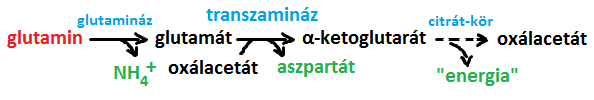
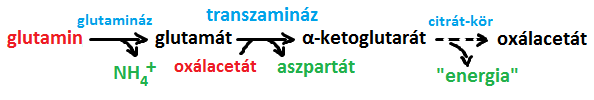
make some changes

Changed region(s): [[0.2727, 0.57, 0.4545, 0.75]]

diff --git a/BioKemia/II/biokemia_II.html b/BioKemia/II/biokemia_II.html
@@ -49,9 +49,7 @@
 
 <div><a href="m0201_hu_KoK_20170928_Demo_01.pdf">demó-1 tételek címe.pdf</a></div>
 
-<details open><summary><strong>PROJECT</strong></summary><ul class="normal">
-	<li>aminosav képletek</li>
-	<li>35t &#10140; WORD</li>
+<details><summary><strong>PROJECT</strong></summary><ul class="normal">
  <hr>
 	<li><span class="Important">táblázat-RAJZ</span> reakciók (képletek): aminosav & lipid (mint szénhidrátnál)</li>
 	<li>csináljak összefoglaló képet a DEMÓ-1 metabolikus utak szabályozásairól (allosztérikus, kovalens, génexpresszió) &#10140; úgy tanuljam őket (egyszerűbb szvsz)</li>
@@ -291,7 +289,7 @@
 		</ul></details>
 		<details class="{344} kerdes 3/3"><summary>glutaminolízis</summary><ul class="normal">
 			<li>osztódó bélhámsejtekben jellemző</li>
-			<li>ugyanis a nettó reakció &#10140; glutaminból keletkezik aszpartát + energia + NH<sub>4</sub><sup>+</sup></li><ul>
+			<li>ugyanis a nettó reakció &#10140; glutaminból és oxálacetátból keletkezik aszpartát + energia + NH<sub>4</sub><sup>+</sup></li><ul>
 				<li>aszpartát pedig nukleotid szintézishez kell, csakúgy mint energia &#10140; tehát ez a magyarázata, hogy osztódó sejtekben jelentős</li>
 				<li>az NH<sub>4</sub><sup>+</sup> pedig eljut májba</li>
 			</ul>
@@ -721,6 +719,8 @@
 		<details class="kerdes 3/2"><summary>Melyek a NADPH-t előállító enzimek, hol találhatóak a sejtben, <strong>mihez kell NADPH?</strong></summary><ul class="normal">
 			<li><span class="Important">zsírsav-szintézis</span> &#10140; 14db/palmitil-CoA <span class="lasd">bk-II/2d: 12.t</span></li>
 			<li><span class="Important">koleszterin-szintézis</span> &#10140; 20db/koleszterin <span class="lasd">bk-II/2d: 23.t</span></li>
+			<li>hem-lebontás: oxidálása biliverdinné, majd annak redukciója bilirubinná &#10140; 1-1db <span class="lasd">bk-II/2d: 77.t</span></li>
+			<li>DHB redukciója THB-re &#10140; 1db <span class="lasd">bk-II/2d: 60.t</span></li>
 			<li>zsírsav-deszaturáció &#10140; 1db/kettős kötés <span class="lasd">bk-II/2d: 14.t</span></li>
 			<li>szfingomielin-szintézis &#10140; 1db/szfingomielin <span class="lasd">bk-II/2d: 18.t</span></li>
 		</ul></details>
@@ -901,21 +901,24 @@
 			<img data-src="vldlvwldm.png">
 		</ul></details>
 		<details class="{331} kerdes 3/4"><summary>A naszcens VLDL keletkezése, érése, a VLDL bomlása, maradványának felvétele hol, hogyan történik? <strong>Melyik lipidet honnan hová szállítja?</strong></summary><ul class="normal">
-		  <strong>triglicerid</strong>
-			<li>kilomikron &#10140; májba és perifériás szövetbe</li>
-			<li>VLDL &#10140; perifériás szövetbe</li>
-		  <hr><strong>koleszterin</strong>
-			<li>koleszterin</li><ul>
-				<li><abbr title="ugye VLSL-ből marad vissza LDL">(VLDL &#10140;)</abbr>LDL esetében &#10140; perifériás szövetbe</li>
-				<li>HDL (és kilomikron) esetében &#10140; májba</li>
-			</ul>
-		  <hr><strong>zsírsavak sorsa:</strong>
-			<li>táplálékfelvételt követően &#10140; zsírszövetbe kerül <abbr title="újra">'</abbr>triglicerid szintetizálódk belőle, és raktározásra kerül</li>
-			<li>éhezésben &#10140; az izomszövetbe(szív/hcs) kerül és eloxidálódva fedezi az energiaszükségletét</li>
-			<li><font style="font-size:80%">egy részük (kilomikron maradvány, IDL) végül a májba jut</font></li>
-		  <hr>
-			<li>magyarázata &#10140; zsírszövetben a lipoprotein-lipázt az inzulin aktiválja (az ApoC-II mellett), étkezés után pedig az inzulin értelemszerűen magas <font style="font-size:80%">(hogy vércukorszint ne nőljön meg és sejtek vegyék fel a glükózt)</font></li>
-		  <img data-src="lprptknksjkm.png">
+			<div class="imp [300]"></div>
+			<details><summary>(régebbi jegyzet)</summary><ul class="normal">
+			  <strong>triglicerid</strong>
+				<li>kilomikron &#10140; májba és perifériás szövetbe</li>
+				<li>VLDL &#10140; perifériás szövetbe</li>
+			  <hr><strong>koleszterin</strong>
+				<li>koleszterin</li><ul>
+					<li><abbr title="ugye VLSL-ből marad vissza LDL">(VLDL &#10140;)</abbr>LDL esetében &#10140; perifériás szövetbe</li>
+					<li>HDL (és kilomikron) esetében &#10140; májba</li>
+				</ul>
+			  <hr><strong>zsírsavak sorsa:</strong>
+				<li>táplálékfelvételt követően &#10140; zsírszövetbe kerül <abbr title="újra">'</abbr>triglicerid szintetizálódk belőle, és raktározásra kerül</li>
+				<li>éhezésben &#10140; az izomszövetbe(szív/hcs) kerül és eloxidálódva fedezi az energiaszükségletét</li>
+				<li><font style="font-size:80%">egy részük (kilomikron maradvány, IDL) végül a májba jut</font></li>
+			  <hr>
+				<li>magyarázata &#10140; zsírszövetben a lipoprotein-lipázt az inzulin aktiválja (az ApoC-II mellett), étkezés után pedig az inzulin értelemszerűen magas <font style="font-size:80%">(hogy vércukorszint ne nőljön meg és sejtek vegyék fel a glükózt)</font></li>
+			  <img data-src="lprptknksjkm.png">
+			</ul></details>
 		</ul></details>
 	</ul></details>
 	<details class="open"><summary class="status"><strong>22.</strong> Hogyan szívódik fel a koleszterin a bélből? Milyen farmakológiai utat ismer a vér a koleszterin szint csökkentésére a bél receptorok szintjén? Hol és kb. mennyi koleszterin található a szervezetünkben? Hogyan szabadulhatunk meg a koleszterintől? Hogyan pótlódik a napi veszteség?</summary><ul class="normal">
@@ -1282,6 +1285,7 @@
 		</ul></details>
 		<details class="kerdes 3/4"><summary>Mit jelent, hogy egy aminosav esszenciális vagy szemiesszenciális? <strong>Sorolja fel az érintett aminosavakat!</strong></summary><ul class="normal">
 			<li>esszenciális(9db) &#10140; hisztidin(His), izoleucin(Ile), leucin(Leu), metionin(Met), fenil-alanin(Phe), treonin(Thr), triptofán(Trp), valin(Val), lizin(Lys)</li>
+			<font style="font-size:80%">megj.tipp: hisztidin + szukcinil-CoA-ra bomlók + összes ketoplasztikus, kivéve tirozin</font>
 			<li>szemiesszenciális(3db) &#10140; arginin(Arg), tirozin(Tyr), cisztein(Cys)</li>
 			<font style="font-size:80%">a Tyr és Cys előadáson volt a szemiesszenciálisok közé sorolva (TK-ban csak Arg)</font>
 		</ul></details>
@@ -1465,12 +1469,14 @@
 		</ul></details>
 	</ul></details>
 	<details class="kerdes 3/7"><summary class="status"><strong>43. A glutamát aminocsoportjának sorsai</strong></summary><ul class="normal">
-	  <strong>máj és vese &#10140; dezaminálás </strong>
+	  <strong>máj és vese &#10140; dezaminálás</strong>
 		<li>a glutamát-dehidrogenáz dezaminálja &#10140; ammónia formában leadja <abbr title="a glutamát az aminocsoportját">'</abbr></li>
 		<li>vesében a <abbr title="visszanövelés normálisra acidózis során">pH szabályozásban</abbr> játszik ez szerepet, ugyanis ammónium keletkezik (+1protont felvesz), majd egyből kiválasztásra kerül <span class="lasd">bk.II/2d: 53t</span></li>
 		<li>májban a periportalis hepatociktákban történik a dezaminálás, majd utána ugyanott az ornitin-ciklussal urea-ba épül be</li>
 	  <hr><strong>glutaminolízis &#10140; transzaminálás</strong>
 		<div class="imp [344]"></div>
+	  <hr><strong>máj &#10140; transzaminálás</strong>
+		<li>transzaminálással áttevődik oxálacetátra, így abból aszpartát lesz &#10140; <span class="lasd">bk-II/2d: 58t – 'ornitin-ciklus & citrát-kör kapcsolata'</span></li>
 	  <hr><strong>ammónia</strong>
 		<li>az ammónia nagy mennyiségben a vérben már toxikus</li>
 		<li>így fontos, hogy a feleslegtől meg kell szabadulni</li>
@@ -1730,13 +1736,15 @@
 	</ul></details>
 	<details class="open"><summary class="status"><strong>58.</strong> Mely aminosavakból származhat C1-töredék , és milyen 1 szénatomos csoport kerülhet tetrahidrofolsavra? Mely reakcióban használódhat fel a metil-THF metilcsoportja?</summary><ul class="normal">
 		<details class="kerdes 3/4"><summary><strong>Mely aminosavakból származhat C1-töredék , és milyen 1 szénatomos csoport kerülhet tetrahidrofolsavra?</strong> Mely reakcióban használódhat fel a metil-THF metilcsoportja?</summary><ul class="normal">
-			<li>aminosav &#10140; szerin, glicin, hisztidin, triptofán</li>
+			<li>aminosav &#10140; szerin, glicin, hisztidin, triptofán (megj.tipp: piruvátra bomlók, kivéve alanin!)</li>
 			<li>a tetrahidrofolsav-ra tehát ezen aminosavakról átkerül valamelyik 1C-atomos csoport (a THF 5. és 10. N-jéhez kapcsolódik 1-1db)</li>
+			<li>pl. glicinhasító-enzim által katalizált reakció: lennti kép &#10140; <span class="lasd">bk-II/2d: 46.t</span></li>
 		  <hr>
 			<li>1C-atomos csoport az oxidáltsági állapotától függően lehet &#10140; -CH<sub>3</sub>(metil), -CH<sub>2</sub>-(metilén), -CHO(formil), -CHNH(formimino), -CH=(metenil)</li>
 			<font style="font-size:80%">a legoxidáltabbat (CO<sub>2</sub>) a biotin szállítja, míg a legredukáltabbat(metil) az S-adenozil-metionin</font>
 		  <hr>
 			<li>a folsav(B9-vitamin)-hiány gyakori betegség</li>
+			<img data-src="rjzkmjkmjkm.png">
 		</ul></details>
 		<details class="kerdes 3/1"><summary>Mely aminosavakból származhat C1-töredék , és milyen 1 szénatomos csoport kerülhet tetrahidrofolsavra? <strong>Mely reakcióban használódhat fel a metil-THF metilcsoportja?</strong></summary><ul class="normal">
 			<li>metionin-ciklusban rákerül a homociszteinre</li>
@@ -1835,7 +1843,7 @@
 	</ul></details>
 	<details class="kerdes 3/6"><summary class="status"><strong>69. A hem biokémiai szerepe</strong></summary><ul class="normal">
 	  <strong>hem felépítése</strong>
-		<li>porfirin = 4db pirrol gyűrű, melyeket -C= (ún. metin-csoport) kapcsol össze</li>
+		<li>porfirin = 4db pirrol gyűrű, melyeket -C= (ún. metilénhídak) kapcsol össze</li>
 		<li>protoporfirin IX = porfirin, mely <abbr title="sztem nem kell tudni nevüket, se lerajzolni, elég felismerni, és érteni">a képen látható</abbr> rövid szénláncú csoportokkal szubsztituált</li>
 		<li>hem = protoporfirin IX -2H<sup>+</sup> + Fe<sup>2+</sup>/Fe<sup>3+</sup></li>
 		<li>vas megkötése &#10140; a két -NH lead 1-1protont, így a 2x negatív töltés eloszlik a 4db nitrogénon, így megkötik a Fe<sup>2+</sup>/Fe<sup>3+</sup>-at  középen</li>
@@ -1880,7 +1888,7 @@
 				<li>a bélhámsejtben lévő ferritinben tárolódik</li>
 				<li>kimegy a vérbe a ferroportin nevő transzporteren keresztül</li>
 			</ul>
-			<li><span class="MISS">A ferroportin szintjét a májsejtek által termelt hepcidin hormon szabályozza. A hepcidint tartják a vasanyagcsere legfontosabb szisztémás szabályozó molekulájának (lásd később)</span></li>
+			<li>a ferroportin szintjét a májsejtek által termelt hepcidin(hormon) gátolja &#10140; <span class="lasd">bk-II/2d: 71t</span></li>
 			<li>a vérbe jutott <span class="Important">Fe<sup>2+</sup>-nek a transzferrinhez kötődéshez oxidálódnia kell</span> &#10140; ezt két ferrooxidáz végzi: <abbr title="hefésztin">hephaestin</abbr> és <abbr title="cőruloplazmin">coeruloplasmin</abbr></li>
 			<li>az Fe<sup>3+</sup> transzferrinhez(2db Fe<sup>3+</sup>-ot cipel) kapcsolódik és elszállítódik</li>
 		  <hr>
@@ -1914,11 +1922,13 @@
 		<img style="max-width:35%" data-src="hpcdntrjnmjn.png">
 		<li>a hepcidin májban szintetizálódó hormon</li>
 		<li>funkciója &#10140; ferroportint gátolja (ami ugye a vasat a keringésbe juttató transzporter &#10140; <span class="lasd">bk-II/2d: 71t</span>)</li>
-	  <hr>
-		<li>a hepcidin expresszióját fokozza <abbr title="a vasraktárak töltöttsége, tehát">'</abbr> ha a telített_transzferrinek(TfFe<sub>2</sub>) aránya nő (ami ugye normál esetben 30%)</li>
+	  <hr><strong>hepcidin expressziójának mechanizmusa</strong>
 		<li>ugyanis a transzferrin-receptor-1 -hez ha kötődik TfFe<sub>2</sub>, akkor leválik róla a HFE, és átmegy transzferrin-receptor-2 -höz</li>
 		<li>ez pedig elindít egy jelátvitelt, aminek eredménye lesz a fokozott hepcidin expresszió</li>
-		<li>a hepcidin expressziót pedig gátolja a <u>hypoxia</u> és a <u>fokozott eritropoezis</u>(eitrocita(vvt)-szintézis) &#10140; így a vasat hozzáférhetővé teszi a felhasználó szervek számára</li>
+	  <hr><strong>hepcidin expressziójának szabályozása</strong>
+		<li>expresszióját fokozza <abbr title="a vasraktárak töltöttsége, tehát">'</abbr> ha a telített_transzferrinek(TfFe<sub>2</sub>) aránya nő (ami ugye normál esetben 30%) &#10140; hisz ennek hatására fog HFE átmenni transzferrin-receptor-2 -re</li>
+		<li>expresszióját gátolja a <u>hypoxia</u> és a <u>fokozott eritropoezis</u>(eitrocita(vvt)-szintézis) &#10140; így a vasat hozzáférhetővé teszi a felhasználó szervek számára</li>
+		tehát <span class="Important">úgy jegyezzem meg, hogy a vastöbblet fokozza az expresszióját, vashiány csökkenti</span> (hiszen a fenntiek akkor vannak)
 	</ul></details>
 	<details class="kerdes 3/5"><summary class="status"><strong>74. Az intracelluláris vasszint szabályozása, IRE (iron response elements)</strong></summary><ul class="normal">
 		<strong>akonitáz</strong> &#10140; két izoenzime van
@@ -1949,7 +1959,7 @@
 	  <hr>
 		<li>az első lépés az elkötelező lépés, ez van szabályozás alatt</li>
 		<li>ALA-szintáznak két izoenzime van &#10140; ALAS1 és ALAS2</li>
-		<li>ALAS1 van a májban &#10140; hem gátolja működését: mivel a mitokondriumban fejeződik be a szintézis így 'praktikus'</li>
+		<li>ALAS1 van a májban &#10140; hem gátolja működését: mivel a mitokondriumban fejeződik be a szintézis így 'praktikus' /ez a house-keeping!/</li>
 		<li>ALAS2 van a vörös csontvelőben</li><ul>
 			<li>alapvetően nincs &#10140; akkor expresszálódik, ha hemoglobinszintézisre van szükség</li>
 			<li>vashiány esetében csökken a mennyisége, mert van az mRNS-én <abbr title="iron response element">IRE</abbr> &#10140; <span class="lasd">bk-II/2d:74t</span></li>
@@ -1964,21 +1974,25 @@
 		<details><summary><strong>lokalizáció</strong></summary><ul class="normal">
 			<div class="imp [342]"></div>
 		</ul></details>
+		<li>lép makrofág sejtjeiben történik</li>
 		<li>első lépésben <strong>oxidáció</strong> történik &#10140; a hemet alkotó 4db metilénhíd közül az &alpha;-nál hasít a hem-oxigenáz</li>
-		<li>a hem-oxigenáz csak hem-el reagál (protoporfirin IX-el NEM)</li>
-		<li>hem + NADPH+H<sup>+</sup> + O<sub>2</sub> +H<sub>2</sub>O &#10140; biliverdin + Fe<sup>3+</sup> + NADP<sup>+</sup> + CO</li>
+		<li>a <u>hem-oxigenáz</u> csak hem-el reagál (protoporfirin IX-el NEM)</li>
+		<li><span class="Important">hem + NADPH+H<sup>+</sup> + O<sub>2</sub> +H<sub>2</sub>O &#10140; biliverdin + Fe<sup>3+</sup> + NADP<sup>+</sup> + CO</span></li>
 		<li>emberben jelenleg ez az egyetlen ismert, enzim katalizálta reakció, amely szén-monoxidot képez</li>
 	  <hr>
 		<li>második lépésben <strong>redukció</strong> történik &#10140; biliverdinből(zöld) bilirubin(narancs) keletkezik</li>
 		<li>ezt a <u>biliverdin reduktáz</u> katalizálja</li>
-		<li>biliverdin + NADPH+H<sup>+</sup> &#10140; bilirubin + NADP<sup>+</sup></li>
+		<li><span class="Important">biliverdin + NADPH+H<sup>+</sup> &#10140; bilirubin + NADP<sup>+</sup></span></li>
 		<img data-src="nlrnkjghmnz.png">
 	</ul></details>
 	<details class="kerdes 3/6"><summary class="status"><strong>78. A bilirubin sorsa a szervezetben</strong></summary><ul class="normal">
 		<li>a hem lebontása során keletkezett bilirubin (lásd előző tétel) a vérbe jut &#10140; albuminhoz kötött formában elszállítódik a májba</li>
-		<li>májsejtekbe felvételre kerülnek transzporterrel (facilitált diffúzió)</li>
-		<li>a transzportot segíti a glutation-S-transzferáz-1 B-hez (GST1B) &#10140; ugyanis ehhez kapcsolódik nagy affinitással egyből a bilirubin, így a koncentráció-arányt kedvező irányba tolja</li>
-		<li>ezután a bilirubin eljut az sER felszínéhez &#10140; itt konjugálódik 1 vagy 2 UDP-glukuronáttal &#10140; keletkezik bilirubin-monoglukoronát bilirubin-diglukoronát (konjugált bilirubin = direkt bilirubin) <abbr title="kép csak megértést">&#10045;</abbr><img class="mini" data-src="kpskmjnmn.png"></li>
+		<li>itt a bilirubin felvételre kerül facilitált diffúzióval (transzporter!)</li>
+		<li>a transzportot segíti a glutation-S-transzferáz-1 B (GST1B) &#10140; ugyanis ehhez kapcsolódik nagy affinitással egyből a bilirubin, így a koncentráció-arányt kedvező irányba tolja</li>
+		<li>ezután a bilirubin eljut az sER felszínéhez</li><ul>
+			<li>itt konjugálódik 1 vagy 2 UDP-glukuronáttal az UDP-glukuronozil-transzferáz (UGT1A1) segítségével</li>
+			<li>keletkezik bilirubin-monoglukuronát bilirubin-diglukuronát (konjugált bilirubin = direkt bilirubin) <abbr title="kép csak megértést">&#10045;</abbr><img class="mini" data-src="kpskmjnmn.png"></li>
+		</ul>
 		<li>ezek az epébe jutnak (ABCC2-transzporterrel), majd kiürülnek az epével a vékonybélbe</li>
 		<li>a vékonybélbe jutva (redukciós lépésekkel) urobilinogénné alakul</li>
 		<li>ez felszívódik a bélhámsejtekben, majd </li><ul>
@@ -1993,17 +2007,114 @@
 	<details class="kerdes 3/x"><summary class="status"><strong><span class="Important">80.</span> A biotranszformáció második, konjugációs szakasza</strong></summary><ul class="normal">
 		<li>x</li>
 	</ul></details>
-	<details class="kerdes 3/x"><summary class="status"><strong><span class="Important">81.</span> Magyarázza meg a fruktóz intoleranciában jelentkező laboratóriumi eltéréseket (hipoglikémia, hipofoszfatémia, hiperurikémia).</strong></summary><ul class="normal">
-		<li>x</li>
+	<details class="kerdes 3/6"><summary class="status"><strong>81. Magyarázza meg a fruktóz intoleranciában jelentkező laboratóriumi eltéréseket (hipoglikémia, hipofoszfatémia, hiperurikémia).</strong></summary><ul class="normal">
+	  <strong>herediter fruktózintolerancia</strong>
+		<div class="imp [264]"></div>
+		<img style="max-width:30%" data-src="rajz_szenhidratok.png">
 	</ul></details>
-	<details class="kerdes 3/x"><summary class="status"><strong><span class="Important">82.</span> Rajzolja fel a tejsav szint alakulását az idő függvényében hírtelen elkezdett intenzív fizikai munka alatt egészséges embernél és McArdle betegségben szenvedőnél.</strong></summary><ul class="normal">
-		<li>x</li>
+	<details class="kerdes 3/5"><summary class="status"><strong>82. Rajzolja fel a tejsav szint alakulását az idő függvényében hírtelen elkezdett intenzív fizikai munka alatt egészséges embernél és McArdle betegségben szenvedőnél.</strong></summary><ul class="normal">
+		<img style="max-width:30%" data-src="zktmkgmjnhm.png">
+	  <strong>McArdle-szindróma</strong>
+		<li>lényege &#10140; glikogén-foszforiláz-hiány</li>
+		<li>következménye &#10140; így hiába magas az izom glikogén tartalma, hirtelen intenzív izommunka esetén izomgörcsök lépnek fel a lecsökkent ATP-szint következtében</li>
+	  <hr><strong>fizikai munka – normál körülmények között</strong>
+		<li>glikolízis indul meg intenzíven &#10140; glikogén lebontása pótolja a glükózt</li>
+		<li>ahhoz, hogy ez fennt lehessen tartani szükség van NAD<sup>+</sup>-ra &#10140; ezért a piruvát egy része laktát-dehidrogenáz által átalakul laktáttá <span class="Important">RAJZ</span></li>
+		<li>így elkezd nőni a laktát koncentráció a vérben</li>
+	  <hr><strong>fizikai munka – McArdle-szindróma esetében</strong>
+		<li>ilyenkor a glikogén NEM tud lebomlani &#10140; így NEM lesz intenzív glikolízis &#10140; NEM lesz laktát emelkedés</li>
+		<img style="float:none" data-src="rajz_szenhidratok.png">
 	</ul></details>
-	<details class="kerdes 3/x"><summary class="status"><strong><span class="Important">83.</span> Magyarázza meg molekuláris szinten az inzulin rezisztencia alakulását elhízásban.</strong></summary><ul class="normal">
-		<li>x</li>
+	<details class="kerdes 3/8"><summary class="status"><strong>83. Magyarázza meg molekuláris szinten az inzulin rezisztencia alakulását elhízásban.</strong></summary><ul class="normal">
+		<details><summary>bevezető</summary><ul class="normal">
+			<li>a diabetesnek alapvetően két fő típusát különböztetjük meg &#10140; I-es típusú és II-es típusú diabetes</li>
+			<font style="font-size:80%">I-es típusú oka, hoy a pancreas &beta;-sejtjei károsodnak, és nem termelnek inzulint (abszolút inzulin-hiány) &#10140; ez már fiatal korban kialakul</font>
+			<li>a továbbiakban a II-es típusúról lesz szó</li>
+		  <hr><strong>lefolyásának lényege</strong>
+			<li>az inzulinra a szervezet 'nem reagál megfelelően'</li>
+			<li>ennek következtében a pancreas &beta;-sejtjei elkezdenek nagyobb mennyiségbe inzulint termelni</li>
+			<li>ez egy ideig megoldja a problémát, azonban egyszercsak (nem tudni pontosan, mikor és miért) a β-sejtek nem képesek ezt a kompenzációt tovább folytatni (működésük késői stádiumban elégtelenné válik), így glukóz intolerancia alkul ki</li>
+			<li>ilyenkor inzulint kell beadni a betegnek</li>
+		  <hr><strong>molekuláris mechanizmusa</strong>
+			<li>az inzulin receptora a receptor-tiroin-kinázok csoportjába tartozik</li>
+			<li>két &alpha;- és két &beta;-alegységből áll &#10140; <abbr title="ez nem 100%, de így fogjam fel (utánajártam és gyors keresésem alapján így érdemes felfogni)">képen lévő 3</abbr> diszulfid-híddal kapcsolódnak egymáshoz</li>
+			<li>az &alpha;-alegység alapállapotban gátolja a &beta;-alegység tirozin-kináz aktivitását (tehát azt, hogy foszforilálja a másik &beta;-alegységen lévő tirozin aminosavakat)</li>
+			<li>azonban, ha az &alpha;-alegység megköti az inzulint, akkor a gátlás megszűnik, így foszforilálódnak a &beta;-alegységen lévő tiozin aminosavak</li>
+			<li>ennek hatására több jelátviteli pálya is megindul, amelyek közül az egyik hatása, hogy a Glut-4 transzporter tartalmű vezikulák kijutnak a membránba, így a sejt felveszi a glükózt</li>
+			<li>a jelátviteli pályák IR-szubsztrátokon(<abbr title="inzulin-receptor">IR</abbr>S) keresztül indulnak meg főként (bár a Glut-4es éppenséggel pont nem)</li>
+			<details><summary><span class="lasd">bk-II/1d: 7t</span></summary><ul class="normal">
+				<div class="imp [207]"></div>
+			</ul></details>
+		  <hr><strong>molekuláris mechanizmusa</strong>
+			<li>azonban <span class="Important">gátolja az inzulin jelátviteli pályát, hogyha az inzulinreceptort/IRS-t alkotó szerin/treonin foszforilálódik</span> (pl. PKA, PKC által)</li>
+			<li>ez történhet pl. glukagon/adrenalin hatására a PKA által</li>
+			<li>DE! diabetes II esetében is megfigyelhető</li>
+		  <hr>
+			<li>ha az inzulin-receptor mutációja van, akkro az egyéb típusú diabetes (nem I és nem II)</li>
+			<img style="max-width:40%" data-src="nzknrcptr.png">
+		</ul></details>
+		<li>inzulin funkciójának lényege &#10140; feleslegesen elfogyasztott szénhidrátok zsír formában raktározása</li>
+	  <hr><strong>molekuláris kapcsolatot az elhízás és az inzulin rezisztencia</strong>
+		<li>Az egyik ilyen tényező az emelkedett szabad zsírsavszint a plazmában, melynek hatására csökken a perifériás szervek glukóz felhasználása, inzulin érzékenysége, és fokozódik a hasnyálmirigy β-sejtek apoptózisa, így végül inzulin hiány lép fel</li>
+		<li>Az adipocitákról már azt is tudjuk, hogy nem csak passzív zsírraktárak, hanem ún. adipokinek, ill.citokinek szekréciójával modulálják az emberi szervezet működését is &#10140; következőben 4db példa kerül bemutatásra</li>
+		<table><tr><th></th>  <th>leptin</th><th>adiponektin</th></tr>
+			<tr><th>termelődése</th>  <td colspan="2">adipocitákban</td></tr>
+			<tr><th>plazma koncentrációja</th>  <td>jól tápláltság esetén nő (akkor szekretálódik)</td>  <td>fordítottan arányos a test tömeggel</td></tr>
+			<tr><th rowspan="2">funkció</th>  
+				<td>az agyban jóllakottság érzést vált ki &#10140; így elkerülve az elhízást</td>  
+				<td rowspan="2">fokozza a máj és izom inzulin iránti érzékenységét <abbr title="az AMP kináz aktivációján keresztül fokozza a zsírsavak oxidációját és növeli az inzulin iránti érzékenységet">'</abbr></td>
+			  </tr><tr>
+				<td>fokozza a máj és izom inzulin iránti érzékenységét <abbr title="feltehetően az intracelluláris lipidtartalom csökkentésén keresztül">'</abbr></td>  
+			</tr>
+			<tr><th>tehát</th>  
+				<td>leptin<abbr title="ill. leptin receptor">'</abbr> deficiencia elhízáshoz vezet, emellett  a máj és izom inzulinérzékenységét csökkenti</td>  
+				<td>elhízás esetében csökken a máj és izom inzulin érzékenysége</td>  
+			</tr>
+		</table>
+	  <hr><strong>tumor nekrózis faktor-α (TNF-α)</strong>
+		<li>citokin</li>
+		<li>a zsírszövetben lévő makrofágok termelik</li>
+		<li>plazma koncentrációja &#10140; elhízásban és inzulin rezisztens állapotokban emelkedett</li>
+		<li>hatása<abbr title="In vitro kísérletekben">'</abbr> &#10140; csökkenti az inzulin-receptor jelátvitelét, ugyanis ennek receptorának jelátvitele során foszforilálódik az IRS-1 Ser aminosava stb.</li>
+	  <hr><strong>rezisztin</strong>
+		<li>plazma koncentrációja &#10140; elhízásban emelkedett</li>
+		<li>fokozza a máj glukóz termelését, és csökkenti az izmok és a zsírszövet glukóz felvételét</li>
 	</ul></details>
-	<details class="kerdes 3/x"><summary class="status"><strong><span class="Important">84.</span> Írja le a piruvát-kináz aktivitásmérés módszerét, a vizsgált alloszterikus effektorok hatását és e hatások biológiai szerepét.</strong></summary><ul class="normal">
-		<li>x</li>
+	<details class="kerdes 3/7"><summary class="status"><strong>84. Írja le a piruvát-kináz aktivitásmérés módszerét, a vizsgált alloszterikus effektorok hatását és e hatások biológiai szerepét.</strong></summary><ul class="normal">
+		<li><span class="Important">RAJZ</span> piruvát-kináz által katalizált reakció</li>
+		<li>piruvát-kináznak három izoenzime van &#10140; L/M/R</li>
+		<table><tr><th>L-piruvát-kináz</th><th>R-piruvát-kináz</th> <th>M-piruvát-kináz</th></tr>
+			<tr><td>máj típusú</td>  <td>vvt típusú</td>  <td>izom típusú</td></tr>
+			<tr><td colspan="2"><strong>allosztérikus szabályozása</strong>
+					<li>ATP, alanin, acetil-CoA gátolja</li>
+					<li>fruktóz-1,6-biszfoszfát serkenti</li>
+				</td> 
+				<td></td>
+			</tr>
+		</table>
+	  <hr>
+		<img style="max-width:20%" data-src="ndkpkhzn.png">
+		<li>a termék piruvát, melyhez ha laktát-dehidrogenázt adunk, akkor átalakítja laktáttá és közben NADH oxidálódik</li>
+		<li>a NADH oxidációja mérhető fotométerrel</li>
+		<li>a gyakorlaton 4 mérést végezünk &#10140; kettőt L-piruvát-kináz, kettőt M-piruvát-kináz</li>
+		<li>kezdő összeállítás a 4 üvegcsében mindegyik esetben</li><ul>
+			<li>PEP</li>
+			<li>laktát-dehidrogenáz</li>
+			<li>NADPH</li>
+			<li>2db esetében L- és 2db esetében M-piruvát-kináz</li>
+		</ul>
+	  <hr><strong>első két mérés (egyik L- másik M-piruvát-kinázzal)</strong>
+		<li>(1) ADP-t hozzáadva elindul a reakció</li>
+		<li>(2) ATP-t hozzáadva L-izoenzim működése gátolva</li>
+		<li>(3) fruktóz-1,6-biszfoszfátot hozzáadva az L-izoenzim működése megnő</li>
+	  <hr><strong>második két mérés (egyik L- másik M-piruvát-kinázzal)</strong>
+		<li>(1) ADP-t hozzáadva elindul a reakció</li>
+		<li>(2) <abbr title="ennyi a különbség mindössze, minden más megegyezik (grafikon is)">L-alanin</abbr>-t hozzáadva L-izoenzim működése gátolva</li>
+		<li>(3) fruktóz-1,6-biszfoszfátot hozzáadva az L-izoenzim működése megnő</li>
+	  <hr><strong>biológiai szerepük</strong>
+		<li>L-alanin &#10140; ha megjelenik májban akkor glukoneogenezisre van szükség</li>
+		<li>ATP &#10140; <font style="font-size:80%">szvsz</font> van elég energia glukoneogenezisre / nincs már szükség glikolízisre</li>
+		<img style="float:none" data-src="rajz_szenhidratok.png">
 	</ul></details>
 <!----></details>
 
@@ -2435,9 +2546,9 @@
 			<li>alapvetően a májban történik (vékonybélben felszívódnak, majd portális keringéssel idejutnak)</li>
 			<div class="imp [265]"></div>
 		</ul></details>
-		<details class="kerdes 3/1"><summary>A fruktózlebontás főbb lépései, szervi lokalizációja. <strong>Esszenciális fruktózuria,</strong> herediter fruktóz intolerancia</summary><ul class="normal">
+		<details class="{348} kerdes 3/1"><summary>A fruktózlebontás főbb lépései, szervi lokalizációja. <strong>Esszenciális fruktózuria,</strong> herediter fruktóz intolerancia</summary><ul class="normal">
 			<li>oka &#10140; fruktokináz működése elégtelen</li>
-			<li>következménye &#10140; fruktózfogyasztást követően ilyenkor a vérben megnő a fruktózkoncentráció, és a fruktóz megjelenik a vizeletben is</li>
+			<li>következménye &#10140; fruktózfogyasztást követően ilyenkor a vérben megnő a fruktózkoncentráció, és a fruktóz megjelenik a vizeletben is(hiperurikémia)</li>
 		</ul></details>
 		<details class="kerdes 3/4"><summary>A fruktózlebontás főbb lépései, szervi lokalizációja. Esszenciális fruktózuria, <strong>herediter fruktóz intolerancia</strong></summary><ul class="normal">
 			<div class="imp [264]"></div>

diff --git a/expqs.html b/expqs.html
@@ -261,7 +261,7 @@
 				<td>98-99</td>
 				<td>1-2</td>
 				<td>B-48, C-II</td>
-				<td>felszívott triglicerid és koleszterin szállítása perifériás szövetbe & májba</td>
+				<td>felszívott triglicerid és koleszterin szállítása perifériás szövetbe, majd a májba</td>
 			</tr>
 			<tr><th><abbr title="very low density lipoprotein">VLDL</abbr></th>
 				<td>90</td>
@@ -848,16 +848,28 @@
 		<li>&beta;(-anomer) &#10140; az -O- mellett jobbra lévő -OH felül van</li>
 		<span class="lasd">(pontosabban: lásd bikém.1)</span>
 	</ul></details>
-	<details class="{264} kerdes 3/4"><summary>herediter fruktóz intolerancia</summary><ul class="normal">
+	<details class="{264} kerdes 3/6"><summary>herediter fruktóz intolerancia</summary><ul class="normal">
 		<li>oka &#10140; aldoláz-B működése elégtelen</li>
 		<font style="font-size:80%"><abbr title="valójában potnosabban így van, de ennyire ne bonyolítsam: 'Three forms of class I protein are found in vertebrates. Aldolase A is preferentially expressed in muscle and brain; aldolase B in liver, kidney, and in enterocytes; and aldolase C in brain. Aldolases A and C are mainly involved in glycolysis, while aldolase B is involved in both glycolysis and gluconeogenesis'">'</abbr>Az aldoláznak 3 típusa van: A/B/C. Mindegyik képes a fruktóz-1,6-biszfoszfát lebontására, tehát izoenzimek. Az aldoláz-B képes emelett a fruktóz-1-P lebontására is. Az alodoláz-A van izmokban és agyban van. Az aldoláz-B májban, vese proximalis tubulus, bélhámsejtek. Az aldoláz-C agyban.</font>
-		<li>következménye &#10140; hipoglikémia</li>
+		<li><span class="Important">RAJZ</span> reakció amit katalizál az aldoláz-B: <span class="WHITE">fruktóz-1-P</span> &#10140; <span class="WHITE">dihidroxi-aceton-foszfát</span> + <span class="WHITE">glicerinaldehid</span></li>
+		<li>következményei</li><ul>
+			<li><span class="Important">hipoglikémia</span></li>
+			<li>hipofoszfatémia</li>
+			<li>hiperurikémia</li><ul>
+				<li>lényege &#10140; húgysav koncentráció magas a vieletben</li>
+				<li>oka &#10140; fokozott purinlebontás</li>
+				<li>egyik tünete a köszvény &#10140; ilyenkor a húgysav<font style="font-size:80%">(pontosabban a sói: urátok)</font> az ízületekben felhalmozódik, és gyulladást alakít ki</li>
+			</ul>
+		</ul>
 		<img style="max-width:40%" data-src="mltkpkgjm.png">
-		<li>lényege &#10140; <span class="WHITE">KÉP</span></li>
+		<li>lényege &#10140; <span class="WHITE">KÉP</span>-<span class="Important">RAJZ</span></li>
 		<font style="font-size:80%">kék-csillag: továbbá az ATP csökkenésének következtében Na/K-pumpa stb. működése is gátolva van</font>
 		<details><summary>kép magyarázata</summary><ul class="normal">
 			a fruktóz-1-P felszaporodása következtében
-			<li>csökken az anorganikus foszfát mennyisége &#10140; hisz a fruktóz-1-P „csapdájában” marad</li>
+			<li>csökken az anorganikus foszfát mennyisége &#10140; hisz a fruktóz-1-P „csapdájában” marad</li><ul>
+				<li>ATP-szintézis gátolva &#10140; nagy mennyiségű AMP lesz <font style="font-size:80%">(hiszen adenilát-kináz 2ADP-t átalakít egy ATP és AMP!)</font> &#10140; jelentős részük lebomlik húgysavvá &#10140; hyperurikaemiához vezet</li>
+				<li>hipofoszfatémia</li>
+			</ul>
 			<li>aktiválja a glikokinázt</li>
 		  <hr>
 			tehát a hipoglikémia 3 oka

diff --git a/javascript.js b/javascript.js
@@ -2984,6 +2984,13 @@ function F_nextQ(){
 					selectList.disabled = true
 					selectList.style.backgroundColor = "Black"
 				}
+				if ( document.getElementById("td.0."+i).style.backgroundColor == "red" ) {
+					document.getElementById("td.0."+i).style.color = "white"
+					document.getElementById("td.0."+i).style.textShadow = "0px 0 white, 0 0px white, 0px 0 white, 0 0px white"
+				} else {
+					document.getElementById("td.0."+i).style.color = "black"
+					document.getElementById("td.0."+i).style.textShadow = "-1px 0 white, 0 1px white, 1px 0 white, 0 -1px white"
+				}
 			}
 		}
 		F_SetMarks()
